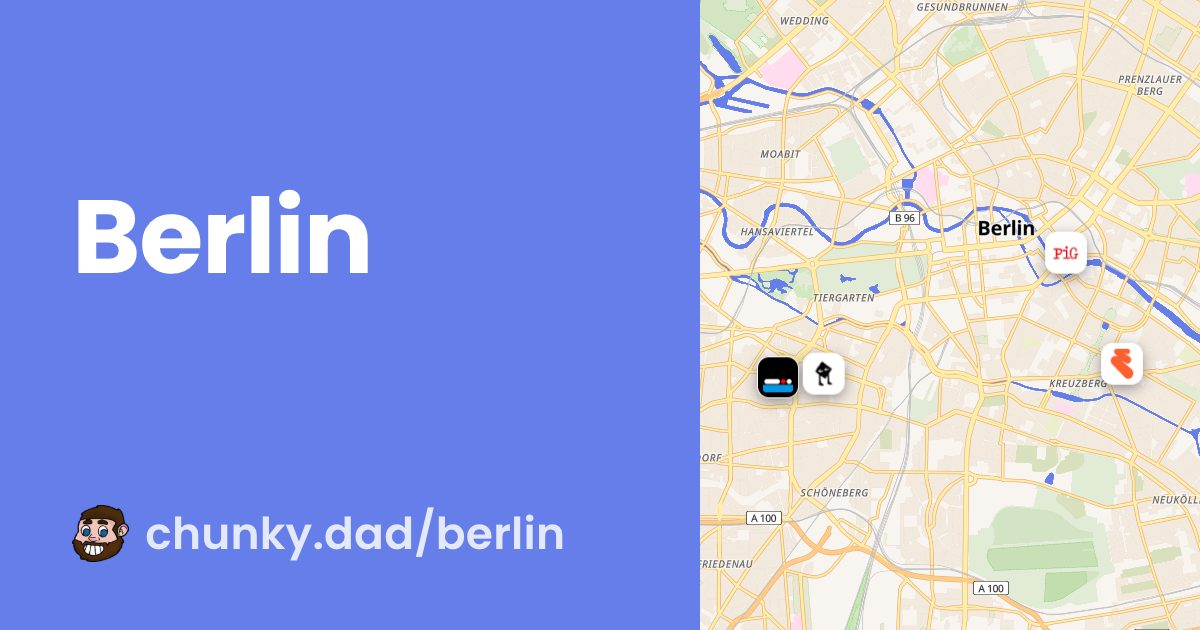
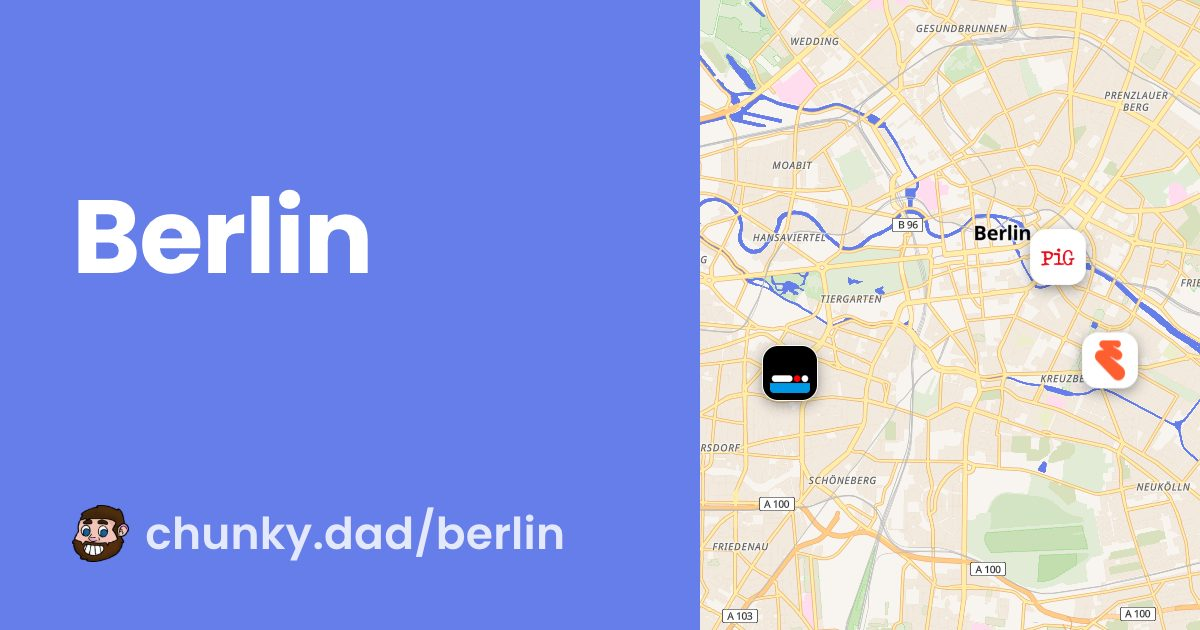
Bigger venue tiles on the city maps
40px to 54px, with the artwork given a little more padding inside. At the old
size the brands were only just readable at share-preview scale; EAGLE and URBAN
BEAR now actually read as themselves.

Two things had to move with it. The collision test now measures the tile off
the DOM instead of comparing against a number typed beside it — that number had
already drifted once and would have gone on silently not matching the CSS. And
the threshold is 0.82 of a tile rather than a full one: demanding complete
clearance at the larger size threw away most of a dense old town's venues,
taking Sitges from six down to one. A pair that just touches reads as two
neighbouring places, because that is what they are; only real stacking looks
like a fault. NYC keeps seven, Sitges two, Provincetown two.

25 rendered, 22 written — the three with no pins to enlarge came back
byte-identical.

Claude-Session: https://claude.ai/code/session_01QpPvhx88qaX3FdiLUqKKqP

Changed region(s): [[0.5858, 0.0, 1.0, 1.0]]

diff --git a/tools/og-card.js b/tools/og-card.js
@@ -76,7 +76,8 @@ const OG_TEMPLATE_VERSION = 2;
 // their own a pure-CSS change to them is invisible to the render gate.
 //
 // 2: dropped the gradient fade and then the divider rule; venue pins.
-const OG_PLACE_TEMPLATE_VERSION = 2;
+// 3: larger pin tiles.
+const OG_PLACE_TEMPLATE_VERSION = 3;
 
 // Bootstrap Icons geometry, inlined — same paths the cards use.
 const OG_ICONS = {
@@ -429,7 +430,7 @@ function mapScript(configJson) {
     var pad = Math.max(10, Math.min(70, Math.min(box.clientWidth, box.clientHeight) * 0.2));
     // pins are 40px and anchored at their centre, so a tile on the boundary
     // hangs half off the card unless the frame leaves room for it
-    if (usePins) pad = Math.max(pad, 78);
+    if (usePins) pad = Math.max(pad, 90);
     // Venues in one neighbourhood would otherwise fit to a single block, so a
     // city card is allowed past the city's default zoom but not far past it.
     var maxZoom = usePins ? Math.min(16, Math.max(cfg.cityZoom + 3, 13)) : cfg.cityZoom;
@@ -444,10 +445,18 @@ function mapScript(configJson) {
     // rendering fault; three spaced ones read as a scene.
     if (usePins && placed.length > 1) {
       var kept = [];
+      // measured, not assumed: the tile is sized in CSS and has changed size
+      // more than once, and a hard-coded distance silently stops matching it
+      var pinSize = placed[0].marker.getElement().offsetWidth || 40;
       placed.forEach(function (item) {
         var pointPx = map.project([item.lng, item.lat]);
+        // 0.82 rather than a full tile width: strict non-overlap threw away
+        // most of a dense old town's venues (Sitges kept one of six). A pair
+        // that just touches reads as two neighbouring places, which is what
+        // they are; only real stacking looks like a fault.
+        var minGap = pinSize * 0.82;
         var collides = kept.some(function (k) {
-          return Math.abs(k.x - pointPx.x) < 40 && Math.abs(k.y - pointPx.y) < 40;
+          return Math.abs(k.x - pointPx.x) < minGap && Math.abs(k.y - pointPx.y) < minGap;
         });
         if (collides) { item.marker.remove(); return; }
         kept.push(pointPx);
@@ -946,7 +955,8 @@ ${m ? '<link rel="stylesheet" href="https://unpkg.com/maplibre-gl@5.24.0/dist/ma
   /* the subtitle is a tagline, not a time or a venue — the clock glyph beside
      it was reading as information it is not */
   body.place .row svg { display: none; }
-  body.place .og-pin { width: 40px; height: 40px; border-radius: 11px; }
+  body.place .og-pin { width: 54px; height: 54px; border-radius: 15px; }
+  body.place .og-pin img { padding: 7px; }
   body.place .row { gap: 0; }
   /* a city with no pinnable venues shows a bare map rather than a lone dot in
      the middle of it — an unlabelled marker means nothing on a city card */

diff --git a/palm-springs/index.html b/palm-springs/index.html
@@ -86,11 +86,11 @@
   <meta property="og:title" content="Palm Springs - chunky.dad Bear Guide">
   <meta property="og:description" content="Complete gay bear guide to Palm Springs - events, bars, and the hottest bear scene">
   <meta property="og:url" content="https://chunky.dad/palm-springs/">
-  <meta property="og:image" content="https://chunky.dad/img/og/city/palm-springs.jpg?v=6b59812c">
+  <meta property="og:image" content="https://chunky.dad/img/og/city/palm-springs.jpg?v=1bf491c5">
   <meta name="twitter:card" content="summary_large_image">
   <meta name="twitter:title" content="Palm Springs - chunky.dad Bear Guide">
   <meta name="twitter:description" content="Complete gay bear guide to Palm Springs - events, bars, and the hottest bear scene">
-  <meta name="twitter:image" content="https://chunky.dad/img/og/city/palm-springs.jpg?v=6b59812c">
+  <meta name="twitter:image" content="https://chunky.dad/img/og/city/palm-springs.jpg?v=1bf491c5">
 </head>
 <body>
         <header>

diff --git a/birmingham/index.html b/birmingham/index.html
@@ -86,11 +86,11 @@
   <meta property="og:title" content="Birmingham - chunky.dad Bear Guide">
   <meta property="og:description" content="Complete gay bear guide to Birmingham - events, bars, and the hottest bear scene">
   <meta property="og:url" content="https://chunky.dad/birmingham/">
-  <meta property="og:image" content="https://chunky.dad/img/og/city/birmingham.jpg?v=7318db74">
+  <meta property="og:image" content="https://chunky.dad/img/og/city/birmingham.jpg?v=5e2b4b35">
   <meta name="twitter:card" content="summary_large_image">
   <meta name="twitter:title" content="Birmingham - chunky.dad Bear Guide">
   <meta name="twitter:description" content="Complete gay bear guide to Birmingham - events, bars, and the hottest bear scene">
-  <meta name="twitter:image" content="https://chunky.dad/img/og/city/birmingham.jpg?v=7318db74">
+  <meta name="twitter:image" content="https://chunky.dad/img/og/city/birmingham.jpg?v=5e2b4b35">
 </head>
 <body>
         <header>

diff --git a/san-diego/index.html b/san-diego/index.html
@@ -86,11 +86,11 @@
   <meta property="og:title" content="San Diego - chunky.dad Bear Guide">
   <meta property="og:description" content="Complete gay bear guide to San Diego - events, bars, and the hottest bear scene">
   <meta property="og:url" content="https://chunky.dad/san-diego/">
-  <meta property="og:image" content="https://chunky.dad/img/og/city/san-diego.jpg?v=11493360">
+  <meta property="og:image" content="https://chunky.dad/img/og/city/san-diego.jpg?v=bc2a4de3">
   <meta name="twitter:card" content="summary_large_image">
   <meta name="twitter:title" content="San Diego - chunky.dad Bear Guide">
   <meta name="twitter:description" content="Complete gay bear guide to San Diego - events, bars, and the hottest bear scene">
-  <meta name="twitter:image" content="https://chunky.dad/img/og/city/san-diego.jpg?v=11493360">
+  <meta name="twitter:image" content="https://chunky.dad/img/og/city/san-diego.jpg?v=bc2a4de3">
 </head>
 <body>
         <header>

diff --git a/philly/index.html b/philly/index.html
@@ -86,11 +86,11 @@
   <meta property="og:title" content="Philadelphia - chunky.dad Bear Guide">
   <meta property="og:description" content="Complete gay bear guide to Philadelphia - events, bars, and the hottest bear scene">
   <meta property="og:url" content="https://chunky.dad/philly/">
-  <meta property="og:image" content="https://chunky.dad/img/og/city/philly.jpg?v=c8263ccf">
+  <meta property="og:image" content="https://chunky.dad/img/og/city/philly.jpg?v=dead6c20">
   <meta name="twitter:card" content="summary_large_image">
   <meta name="twitter:title" content="Philadelphia - chunky.dad Bear Guide">
   <meta name="twitter:description" content="Complete gay bear guide to Philadelphia - events, bars, and the hottest bear scene">
-  <meta name="twitter:image" content="https://chunky.dad/img/og/city/philly.jpg?v=c8263ccf">
+  <meta name="twitter:image" content="https://chunky.dad/img/og/city/philly.jpg?v=dead6c20">
 </head>
 <body>
         <header>

diff --git a/ptown/index.html b/ptown/index.html
@@ -86,11 +86,11 @@
   <meta property="og:title" content="Provincetown - chunky.dad Bear Guide">
   <meta property="og:description" content="Complete gay bear guide to Provincetown - events, bars, and the hottest bear scene">
   <meta property="og:url" content="https://chunky.dad/ptown/">
-  <meta property="og:image" content="https://chunky.dad/img/og/city/ptown.jpg?v=4511ff4a">
+  <meta property="og:image" content="https://chunky.dad/img/og/city/ptown.jpg?v=151b296c">
   <meta name="twitter:card" content="summary_large_image">
   <meta name="twitter:title" content="Provincetown - chunky.dad Bear Guide">
   <meta name="twitter:description" content="Complete gay bear guide to Provincetown - events, bars, and the hottest bear scene">
-  <meta name="twitter:image" content="https://chunky.dad/img/og/city/ptown.jpg?v=4511ff4a">
+  <meta name="twitter:image" content="https://chunky.dad/img/og/city/ptown.jpg?v=151b296c">
 </head>
 <body>
         <header>

diff --git a/brighton/index.html b/brighton/index.html
@@ -86,11 +86,11 @@
   <meta property="og:title" content="Brighton - chunky.dad Bear Guide">
   <meta property="og:description" content="Complete gay bear guide to Brighton - events, bars, and the hottest bear scene">
   <meta property="og:url" content="https://chunky.dad/brighton/">
-  <meta property="og:image" content="https://chunky.dad/img/og/city/brighton.jpg?v=eea12372">
+  <meta property="og:image" content="https://chunky.dad/img/og/city/brighton.jpg?v=b2f36212">
   <meta name="twitter:card" content="summary_large_image">
   <meta name="twitter:title" content="Brighton - chunky.dad Bear Guide">
   <meta name="twitter:description" content="Complete gay bear guide to Brighton - events, bars, and the hottest bear scene">
-  <meta name="twitter:image" content="https://chunky.dad/img/og/city/brighton.jpg?v=eea12372">
+  <meta name="twitter:image" content="https://chunky.dad/img/og/city/brighton.jpg?v=b2f36212">
 </head>
 <body>
         <header>

diff --git a/portland/index.html b/portland/index.html
@@ -86,11 +86,11 @@
   <meta property="og:title" content="Portland - chunky.dad Bear Guide">
   <meta property="og:description" content="Complete gay bear guide to Portland - events, bars, and the hottest bear scene">
   <meta property="og:url" content="https://chunky.dad/portland/">
-  <meta property="og:image" content="https://chunky.dad/img/og/city/portland.jpg?v=4ce996dc">
+  <meta property="og:image" content="https://chunky.dad/img/og/city/portland.jpg?v=630d3a03">
   <meta name="twitter:card" content="summary_large_image">
   <meta name="twitter:title" content="Portland - chunky.dad Bear Guide">
   <meta name="twitter:description" content="Complete gay bear guide to Portland - events, bars, and the hottest bear scene">
-  <meta name="twitter:image" content="https://chunky.dad/img/og/city/portland.jpg?v=4ce996dc">
+  <meta name="twitter:image" content="https://chunky.dad/img/og/city/portland.jpg?v=630d3a03">
 </head>
 <body>
         <header>

diff --git a/nola/index.html b/nola/index.html
@@ -86,11 +86,11 @@
   <meta property="og:title" content="New Orleans - chunky.dad Bear Guide">
   <meta property="og:description" content="Complete gay bear guide to New Orleans - events, bars, and the hottest bear scene">
   <meta property="og:url" content="https://chunky.dad/nola/">
-  <meta property="og:image" content="https://chunky.dad/img/og/city/nola.jpg?v=55a22553">
+  <meta property="og:image" content="https://chunky.dad/img/og/city/nola.jpg?v=cf586a6f">
   <meta name="twitter:card" content="summary_large_image">
   <meta name="twitter:title" content="New Orleans - chunky.dad Bear Guide">
   <meta name="twitter:description" content="Complete gay bear guide to New Orleans - events, bars, and the hottest bear scene">
-  <meta name="twitter:image" content="https://chunky.dad/img/og/city/nola.jpg?v=55a22553">
+  <meta name="twitter:image" content="https://chunky.dad/img/og/city/nola.jpg?v=cf586a6f">
 </head>
 <body>
         <header>

diff --git a/atlanta/index.html b/atlanta/index.html
@@ -86,11 +86,11 @@
   <meta property="og:title" content="Atlanta - chunky.dad Bear Guide">
   <meta property="og:description" content="Complete gay bear guide to Atlanta - events, bars, and the hottest bear scene">
   <meta property="og:url" content="https://chunky.dad/atlanta/">
-  <meta property="og:image" content="https://chunky.dad/img/og/city/atlanta.jpg?v=1325ee5b">
+  <meta property="og:image" content="https://chunky.dad/img/og/city/atlanta.jpg?v=18547d6e">
   <meta name="twitter:card" content="summary_large_image">
   <meta name="twitter:title" content="Atlanta - chunky.dad Bear Guide">
   <meta name="twitter:description" content="Complete gay bear guide to Atlanta - events, bars, and the hottest bear scene">
-  <meta name="twitter:image" content="https://chunky.dad/img/og/city/atlanta.jpg?v=1325ee5b">
+  <meta name="twitter:image" content="https://chunky.dad/img/og/city/atlanta.jpg?v=18547d6e">
 </head>
 <body>
         <header>

diff --git a/chicago/index.html b/chicago/index.html
@@ -86,11 +86,11 @@
   <meta property="og:title" content="Chicago - chunky.dad Bear Guide">
   <meta property="og:description" content="Complete gay bear guide to Chicago - events, bars, and the hottest bear scene">
   <meta property="og:url" content="https://chunky.dad/chicago/">
-  <meta property="og:image" content="https://chunky.dad/img/og/city/chicago.jpg?v=8e1a1023">
+  <meta property="og:image" content="https://chunky.dad/img/og/city/chicago.jpg?v=c697e1b3">
   <meta name="twitter:card" content="summary_large_image">
   <meta name="twitter:title" content="Chicago - chunky.dad Bear Guide">
   <meta name="twitter:description" content="Complete gay bear guide to Chicago - events, bars, and the hottest bear scene">
-  <meta name="twitter:image" content="https://chunky.dad/img/og/city/chicago.jpg?v=8e1a1023">
+  <meta name="twitter:image" content="https://chunky.dad/img/og/city/chicago.jpg?v=c697e1b3">
 </head>
 <body>
         <header>

diff --git a/phoenix/index.html b/phoenix/index.html
@@ -86,11 +86,11 @@
   <meta property="og:title" content="Phoenix - chunky.dad Bear Guide">
   <meta property="og:description" content="Complete gay bear guide to Phoenix - events, bars, and the hottest bear scene">
   <meta property="og:url" content="https://chunky.dad/phoenix/">
-  <meta property="og:image" content="https://chunky.dad/img/og/city/phoenix.jpg?v=b2803497">
+  <meta property="og:image" content="https://chunky.dad/img/og/city/phoenix.jpg?v=88d0fe60">
   <meta name="twitter:card" content="summary_large_image">
   <meta name="twitter:title" content="Phoenix - chunky.dad Bear Guide">
   <meta name="twitter:description" content="Complete gay bear guide to Phoenix - events, bars, and the hottest bear scene">
-  <meta name="twitter:image" content="https://chunky.dad/img/og/city/phoenix.jpg?v=b2803497">
+  <meta name="twitter:image" content="https://chunky.dad/img/og/city/phoenix.jpg?v=88d0fe60">
 </head>
 <body>
         <header>
